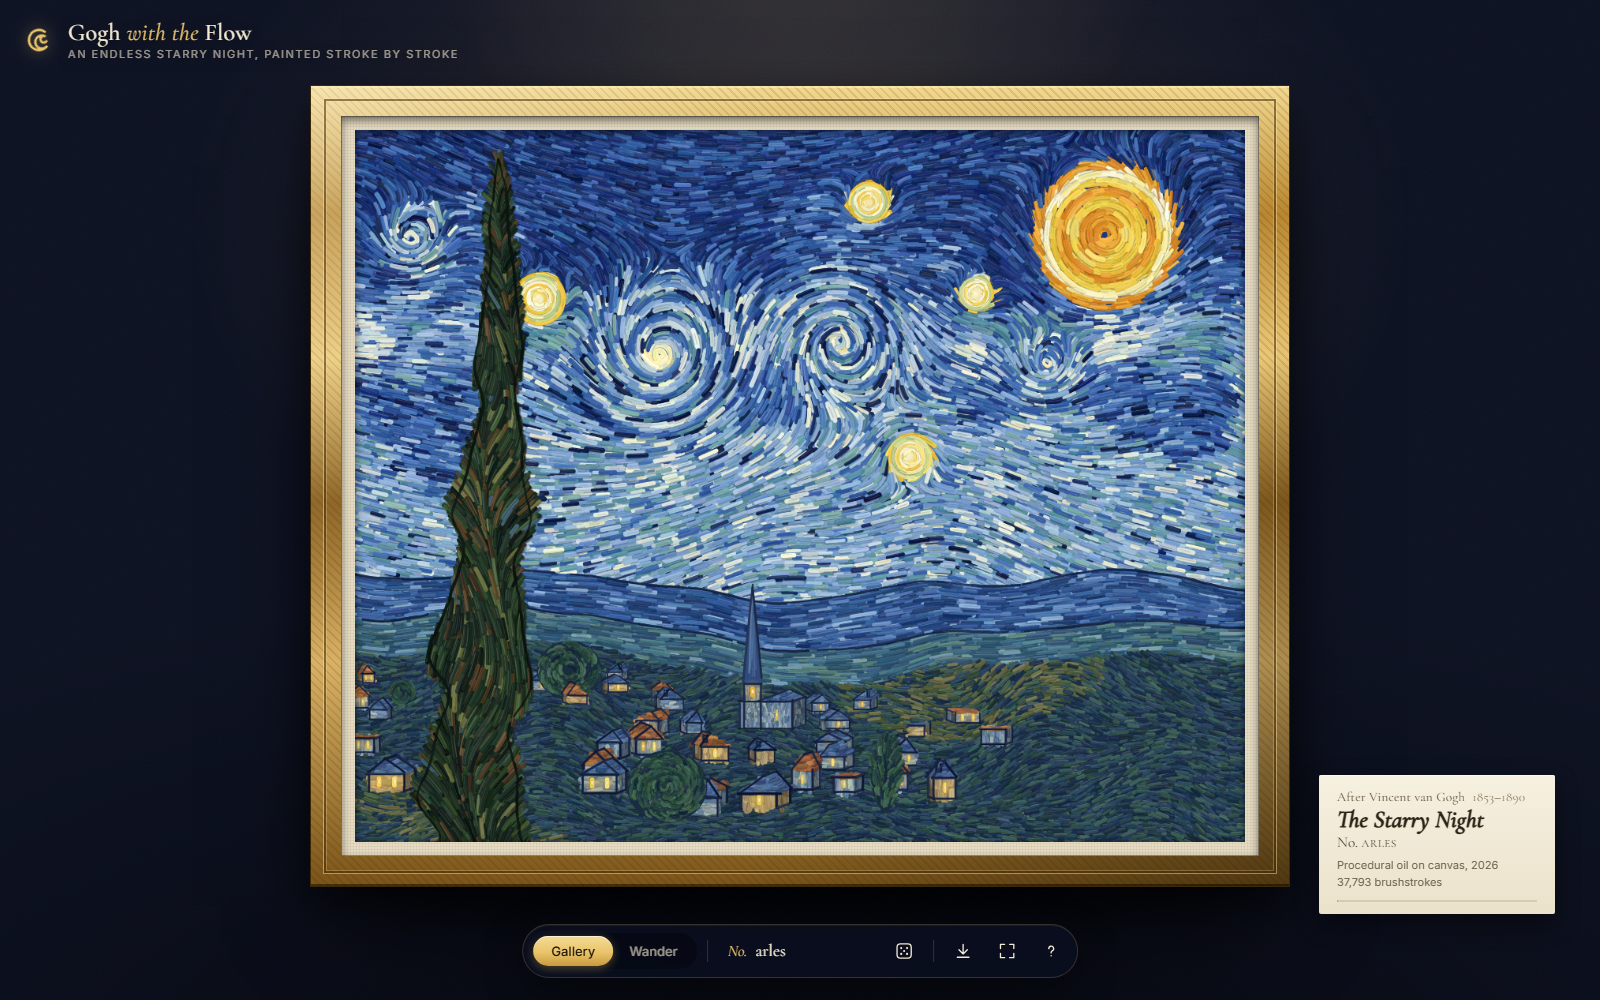
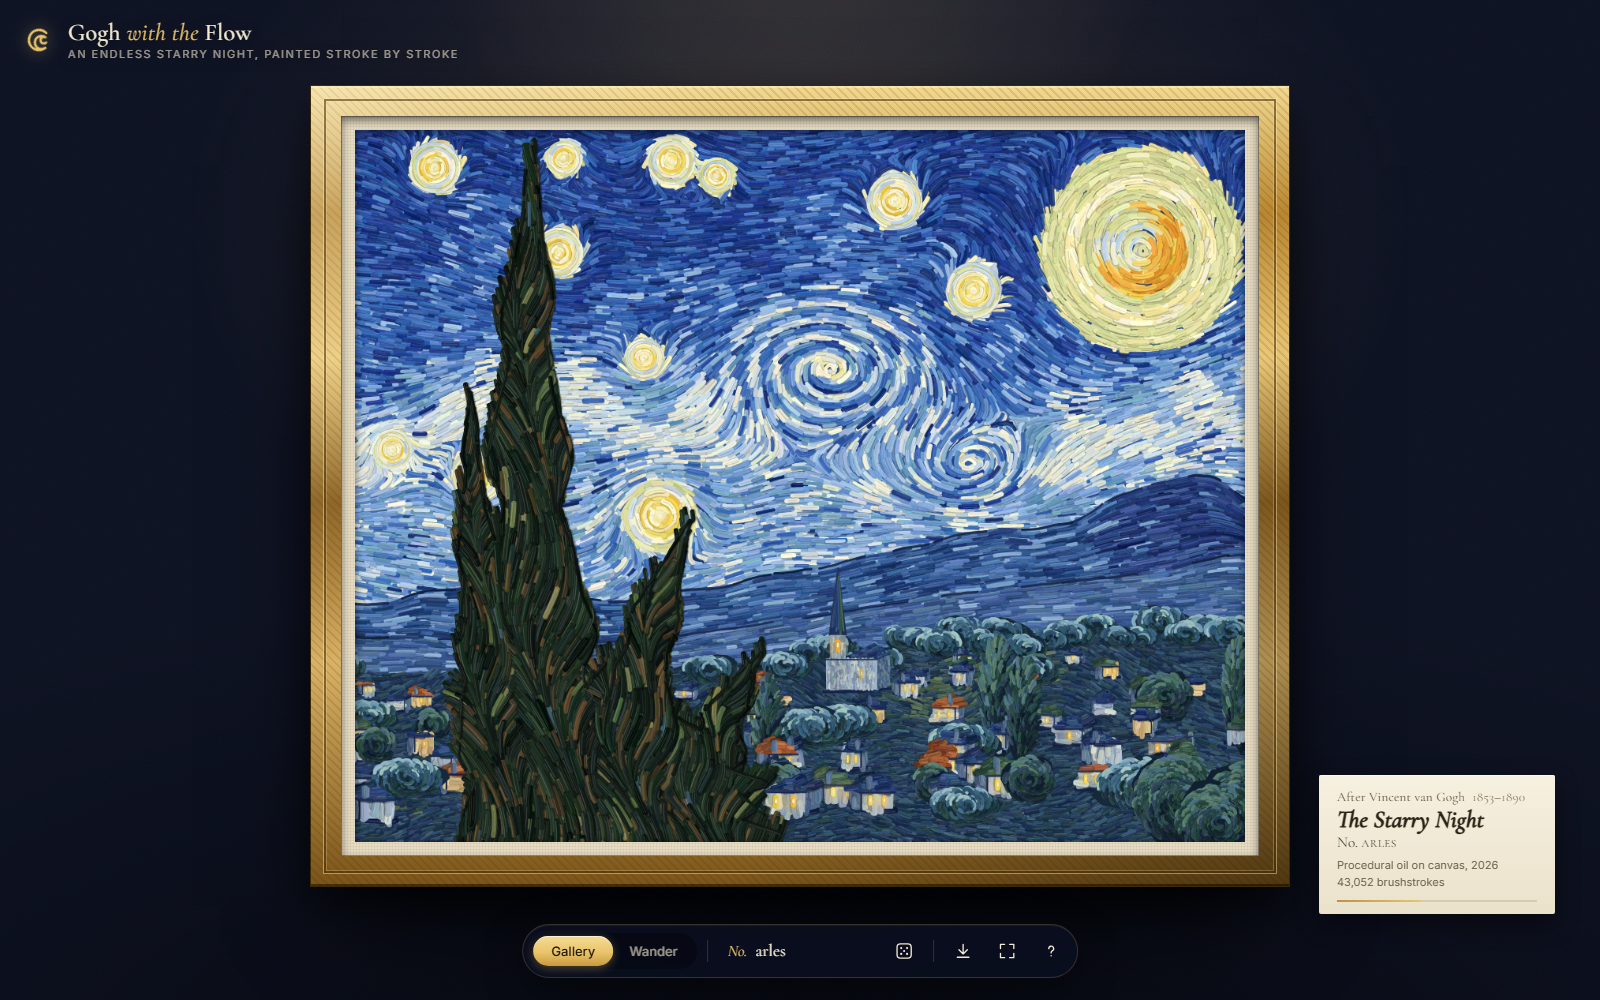
Refresh README and screenshots for the faithful gallery composition

Changed region(s): [[0.2188, 0.124, 0.7812, 0.868], [0.8438, 0.868, 0.9062, 0.899]]

diff --git a/README.md b/README.md
@@ -9,9 +9,11 @@ An endless *Starry Night*, procedurally painted stroke by stroke. It takes its s
 
 ## Two ways to look at it
 
-- **Gallery**: the classic composition, hung in a gilded frame on a museum wall, with a placard
-  that names its seed and counts its brushstrokes. The cypress is on the left, the great swirl in
-  the middle, the moon top right, and a church spire rises over the hills.
+- **Gallery**: a close reinterpretation of the 1889 painting, hung in a gilded frame on a museum
+  wall, with a placard that names its seed and counts its brushstrokes. It has the flame-shaped
+  cypress cluster, the rolling great swirl, eleven haloed stars, a crescent moon, mountains that
+  climb to a dark peak on the right, olive groves, and a white church spire. Each seed varies the
+  details slightly.
 - **Wander**: walk sideways through an infinite night. New swirls, moons, cypresses, villages,
   poplars and fields keep coming, and each stretch is painted just ahead of you as you travel.
   It starts on the gallery painting itself.
@@ -60,7 +62,7 @@ it being painted.
 | Path | Role |
 | --- | --- |
 | `src/core/` | Seeded RNG and hashing, Perlin noise, colour helpers, the impasto brush |
-| `src/world/world.ts` | Chunked feature generation: moons, swirls, stars, cypresses, towns, trees, terrain |
+| `src/world/world.ts` | The classic 1889 layout, plus chunked procedural generation of moons, swirls, stars, cypresses, towns, olive trees and peaked terrain |
 | `src/paint/sky.ts` | Flow field from base wave + milky-way ribbon + vortices + star halos; concentric glow rings |
 | `src/paint/land.ts` | Hills that follow ridgelines, valley floor, field patches |
 | `src/paint/village.ts` | Blocky 3/4-view houses built from paint dabs, glowing windows, churches, trees |
